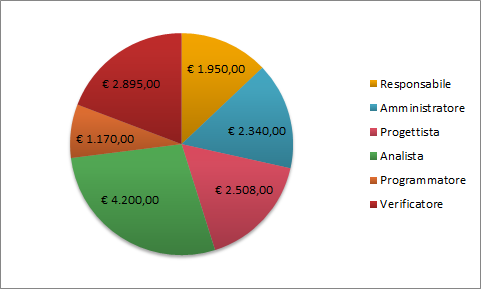
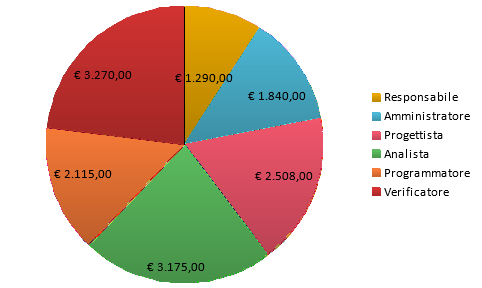
modifica preventivo con grafici

diff --git a/RQ/Esterni/PianoDiProgetto/Preventivo.tex b/RQ/Esterni/PianoDiProgetto/Preventivo.tex
@@ -344,15 +344,15 @@
 			\textbf{Nominativo} & \textbf{Rp} & \textbf{Am} & \textbf{Pt}
 						& \textbf{An} & \textbf{Pm} & \textbf{Ve} & \textbf{Ore totali} \\
 			\midrule
-			Andrea Magnan  & 3 & 0 & 11 & 0 & 5 & 11 & 30 \\
-			Luca Bertolini  & 0 & 7 & 12 & 0 & 12 & 0 & 31 \\
-			Mattia Bottaro  & 0 & 10 & 10 & 0 & 11 & 0 & 31 \\
-			Mauro Carlin  & 7 & 0 & 9 & 0 & 12 & 3 & 31 \\
+			Andrea Magnan  & 3 & 0 & 6 & 0 & 10 & 11 & 30 \\
+			Luca Bertolini  & 0 & 5 & 6 & 0 & 20 & 0 & 31 \\
+			Mattia Bottaro  & 0 & 7 & 5 & 0 & 19 & 0 & 31 \\
+			Mauro Carlin  & 7 & 0 & 4 & 0 & 17 & 3 & 31 \\
 			Nicola Tintorri  & 0 & 0 & 0 & 0 & 16 & 17 & 33 \\
-			Pier Paolo Tricomi  & 0 & 0 & 8 & 0 & 16 & 7 & 31 \\
+			Pier Paolo Tricomi  & 0 & 0 & 4 & 0 & 20 & 7 & 31 \\
 			Simeone Pizzi & 4 & 0 & 4 & 0 & 19 & 4 & 31 \\
 			\midrule
-			\textbf{Ore Totali Ruolo} & 14 & 17 & 54 & 0 & 91 & 42 & 218 \\
+			\textbf{Ore Totali Ruolo} & 14 & 12 & 29 & 0 & 121 & 42 & 218 \\
 			\bottomrule
 
 		\end{tabularx}
@@ -378,13 +378,13 @@
 			\textbf{Ruolo} & \textbf{Ore} & \textbf{Costo (\euro{})} \\
 			\midrule
 			Responsabile & 14    &  420,00 \\
-			Amministratore  & 17    &  340,00 \\
-			Progettista  & 54   &  1.188,00 \\
+			Amministratore  & 12    &  240,00 \\
+			Progettista  & 29   &  638,00 \\
 			Analista & 0    &  0,00 \\
-			Programmatore  & 91    &  1.365,00 \\
+			Programmatore  & 121    &  1.815,00 \\
 			Verificatore  & 42    &  630,00 \\
 			\midrule
-			\textbf{Totale}  & 218   &  3.943,00 \\
+			\textbf{Totale}  & 218   &  3.743,00 \\
 			\bottomrule
 		\end{tabular}
 		\caption{\PerC{} - Costo per ruolo}
@@ -490,15 +490,15 @@
 			\textbf{Nominativo} & \textbf{Rp} & \textbf{Am} & \textbf{Pt}
 						& \textbf{An} & \textbf{Pm} & \textbf{Ve} & \textbf{Ore totali} \\
 			\midrule
-			Andrea Magnan  & 6  & 12 & 22 & 18 & 11  & 36 & 105 \\
-			Luca Bertolini  & 6 & 21 & 18 & 14 & 20 & 26 & 105 \\
-			Mattia Bottaro  & 7  & 10 & 28 & 22 & 11  & 27 & 105 \\
-			Mauro Carlin  & 7 & 21 & 19 & 19 & 12 & 27 & 105 \\
-			Nicola Tintorri  & 6 & 11 & 13 & 18 & 17 & 41 & 105 \\
-			Pier Paolo Tricomi  & 7 & 10 & 25 & 15 & 20 & 28 & 105 \\
-			Simeone Pizzi & 4 & 12 & 24 & 11 & 21 & 33 & 105 \\
+			Andrea Magnan  & 6  & 12 & 17 & 18 & 16  & 36 & 105 \\
+			Luca Bertolini  & 6 & 19 & 12 & 14 & 28 & 26 & 105 \\
+			Mattia Bottaro  & 7  & 7 & 19 & 22 & 19  & 31 & 105 \\
+			Mauro Carlin  & 7 & 21 & 14 & 19 & 17 & 27 & 105 \\
+			Nicola Tintorri  & 6 & 11 & 13 & 22 & 16 & 37 & 105 \\
+			Pier Paolo Tricomi  & 7 & 10 & 19 & 17 & 24 & 28 & 105 \\
+			Simeone Pizzi & 4 & 12 & 20 & 15 & 21 & 33 & 105 \\
 			\midrule
-			\textbf{Ore Totali Ruolo} & 43    & 97   & 139   & 127   & 111 & 218   & 735 \\
+			\textbf{Ore Totali Ruolo} & 43    & 92   & 114   & 127   & 141 & 218   & 735 \\
 			\bottomrule
 		\end{tabularx}
 		\caption{Ore totali - Suddivisione delle ore di lavoro}
@@ -525,13 +525,13 @@
 			\textbf{Ruolo} & \textbf{Ore} & \textbf{Costo (\euro{})} \\
 			\midrule
 			Responsabile & 43    &  1.290,00 \\
-			Amministratore  & 97   &  1.940,00 \\
-			Progettista  & 149   &  3.278,00 \\
-			Analista & 117   &  2.925,00 \\
-			Programmatore  & 111   &  1.665,00 \\
+			Amministratore  & 92   &  1.840,00 \\
+			Progettista  & 114   &  2.508,00 \\
+			Analista & 127   &  3.175,00 \\
+			Programmatore  & 141   &  2.115,00 \\
 			Verificatore  & 218   &  3.270,00 \\
 			\midrule
-			\textbf{Totale}  & 735  &  14.368,00 \\
+			\textbf{Totale}  & 735  &  14.198,00 \\
 			\bottomrule
 
 		\end{tabular}
